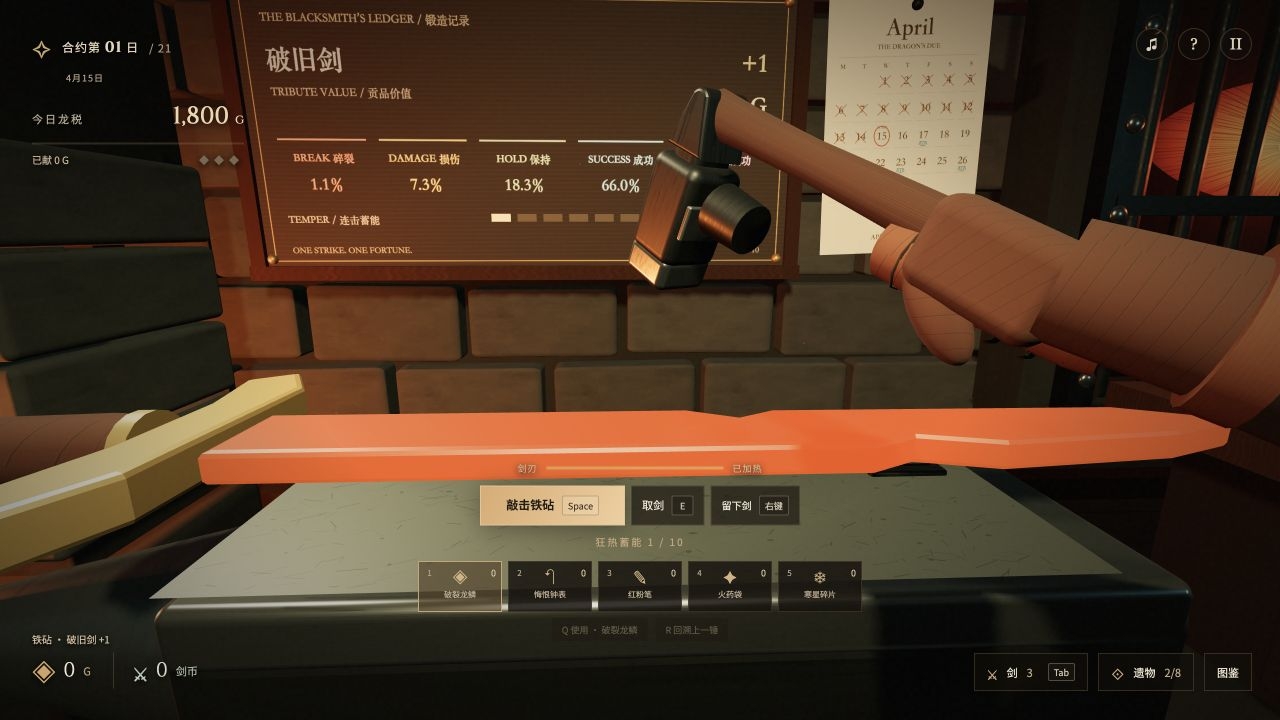
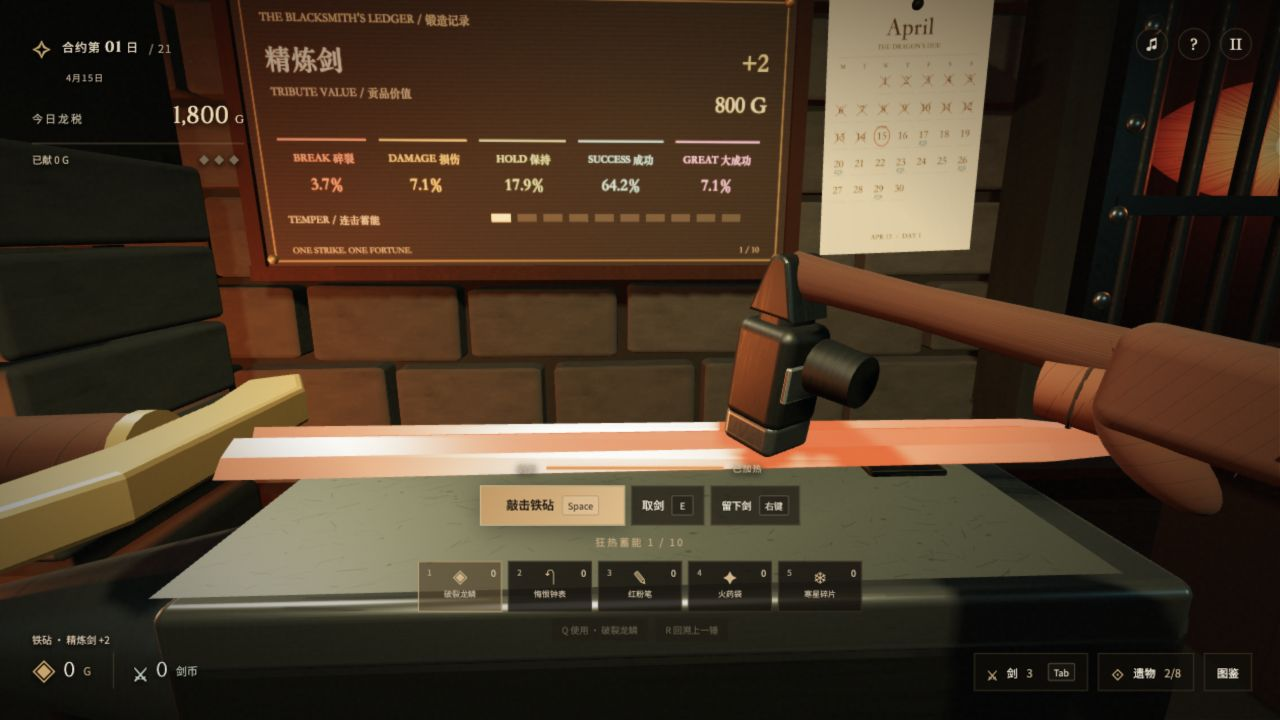
Broaden hammer windup and give strikes a heavier low-guard recovery

diff --git a/tests/hammer-rhythm.test.js b/tests/hammer-rhythm.test.js
@@ -2,11 +2,11 @@ import test from 'node:test';
 import assert from 'node:assert/strict';
 import * as THREE from 'three';
 import {getHammerStrikePose,getHammerForearmPose,getAnvilFocusView} from '../src/workshop-motion.js';
-import {HAMMER_FACE,HAMMER_WRIST} from '../src/hammer-frame.js';
+import {HAMMER_FACE,HAMMER_WRIST,hammerHeadMinimumY} from '../src/hammer-frame.js';
 
-function setup(aspect=1280/720,z=null){
+function setup(aspect=1280/720,z=null,height=1.62){
   const view=getAnvilFocusView(aspect),camera=new THREE.PerspectiveCamera(66,aspect,.045,60);camera.position.copy(view.position);if(z!==null)camera.position.z=z;camera.lookAt(view.look);camera.updateMatrixWorld();
-  const origin=new THREE.Vector3(-.96,1.62,-.92);
+  const origin=new THREE.Vector3(-.96,height,-.92);
   const frame=time=>{
     const pose=getHammerStrikePose({camera,scale:.68,origin,time,contact:.32,duration:.56});
     const local=new THREE.Matrix4().compose(pose.position,pose.quaternion,pose.scale);
@@ -36,6 +36,19 @@ test('a forceful strike is lifted overhead before its accelerating downstroke',(
   const {frame,origin}=setup();
   const raised=Math.max(...Array.from({length:32},(_,i)=>frame(i/100).face.y));
   assert.ok(raised>origin.y+.7,'hammer is visibly raised high above the blade');
+});
+
+test('the windup visibly lifts the arm out of a low guard instead of only rotating the hammer',()=>{
+  for(const aspect of [1280/720,1,360/800]){
+    const {frame}=setup(aspect);
+    assert.ok(frame(0).wrist.distanceTo(frame(.32*.42).wrist)>.3,'the hand travels at least 30cm through the windup');
+  }
+});
+
+test('the desktop windup brings the raised hand inside the frame',()=>{
+  const {frame,camera}=setup(),raised=frame(.32*.42);
+  const screen=raised.wrist.clone().applyMatrix4(camera.matrixWorld).project(camera);
+  assert.ok(Math.abs(screen.x)<.95&&Math.abs(screen.y)<.95,'the raised hand stays visible with a small screen margin');
 });
 
 test('a heavy downstroke concentrates most of its descent in the final quarter',()=>{
@@ -68,8 +81,25 @@ test('overhead forging stays in reach without the old idle-to-contact side twist
 });
 
 test('desktop and portrait forge cameras keep the entire overhead stroke within the fixed shoulder reach',()=>{
-  for(const aspect of [1280/720,1,360/800]){
-    const {frame}=setup(aspect),anchor=new THREE.Vector3(THREE.MathUtils.lerp(.21,.28,THREE.MathUtils.clamp((aspect-.9)/.65,0,1)),-.3,-.12);
+  for(const aspect of [1280/720,1,360/800,390/844])for(const height of [1.61,1.7504]){
+    const {frame}=setup(aspect,null,height),anchor=new THREE.Vector3(THREE.MathUtils.lerp(.21,.28,THREE.MathUtils.clamp((aspect-.9)/.65,0,1)),-.3,-.12);
     for(let i=0;i<=56;i++)assert.ok(frame(i/100).arm.shoulder.distanceTo(anchor)<1e-5,'IK never relocates the shoulder to manufacture extra reach');
+  }
+});
+
+test('square-window windups keep the head ahead of the near plane without stretching the arm',()=>{
+  // Blade contacts include the thick citadel and the fish blade's offset plate.
+  const origins=[new THREE.Vector3(-.96,1.60112,-.92),new THREE.Vector3(-.96,1.7504,-.92),new THREE.Vector3(-.96,1.670527,-.7664)];
+  const depthAxis=new THREE.Quaternion().setFromAxisAngle(new THREE.Vector3(1,0,0),Math.PI/2);
+  for(let step=0;step<=22;step++){
+    const aspect=.75+step*.025,{camera}=setup(aspect);
+    const shoulder=new THREE.Vector3(THREE.MathUtils.lerp(.21,.28,THREE.MathUtils.clamp((aspect-.9)/.65,0,1)),-.3,-.12);
+    for(const origin of origins)for(const time of [...Array.from({length:57},(_,i)=>i/100),.32*.42]){
+      const pose=getHammerStrikePose({camera,scale:.68,origin,time});
+      const nearDepth=-pose.position.z+hammerHeadMinimumY(depthAxis.clone().multiply(pose.quaternion),pose.scale.x);
+      assert.ok(nearDepth>.05,`head clears the 45mm near plane with margin, aspect=${aspect}, t=${time}`);
+      const wrist=HAMMER_WRIST.clone().applyMatrix4(new THREE.Matrix4().compose(pose.position,pose.quaternion,pose.scale));
+      assert.ok(getHammerForearmPose(wrist,aspect).shoulder.distanceTo(shoulder)<1e-5,'framing correction never creates extra arm reach');
+    }
   }
 });

diff --git a/src/workshop-motion.js b/src/workshop-motion.js
@@ -23,13 +23,13 @@ function hammerContactFrame(camera,origin,scale){
     .multiply(new THREE.Quaternion().setFromAxisAngle(new THREE.Vector3(0,0,1),Math.PI/2-HAMMER_HEAD.roll));
   const contactPosition=origin.clone().sub(HAMMER_FACE.clone().multiplyScalar(scale).applyQuaternion(contactQuaternion));
   const contactWrist=contactPosition.clone().add(HAMMER_GRIP.clone().multiplyScalar(scale).applyQuaternion(contactQuaternion));
-  return {toGrip,contactQuaternion,contactWrist,armScale:1};
+  return {toGrip,right,contactQuaternion,contactWrist,armScale:1};
 }
 
-function hammerWorkingPose({camera,scale,origin},angle,reach,lift){
+function hammerWorkingPose({camera,scale,origin},angle,reach,lift,sweep=0){
   const frame=hammerContactFrame(camera,origin,scale),axis=new THREE.Vector3(0,1,0).cross(frame.toGrip);
   const quaternion=new THREE.Quaternion().setFromAxisAngle(axis,angle).multiply(frame.contactQuaternion);
-  const wrist=frame.contactWrist.addScaledVector(frame.toGrip,reach);wrist.y+=lift;
+  const wrist=frame.contactWrist.addScaledVector(frame.toGrip,reach).addScaledVector(frame.right,sweep);wrist.y+=lift;
   const position=wrist.sub(HAMMER_GRIP.clone().multiplyScalar(scale).applyQuaternion(quaternion));
   // Protect the whole head envelope without flattening the stroke into a slide.
   const head=position.clone().add(new THREE.Vector3(...HAMMER_HEAD.position).multiplyScalar(scale).applyQuaternion(quaternion));
@@ -39,23 +39,29 @@ function hammerWorkingPose({camera,scale,origin},angle,reach,lift){
   const result={position:new THREE.Vector3(),quaternion:new THREE.Quaternion(),scale:new THREE.Vector3(),armScale:frame.armScale};matrix.decompose(result.position,result.quaternion,result.scale);return result;
 }
 
-export function getHammerReadyPose(options){return hammerWorkingPose(options,.45,.03,.03);}
+export function getHammerReadyPose(options){return hammerWorkingPose(options,.15,.13,-.045,.06);}
 
 export function getHammerStrikePose({camera,scale,origin,time,contact=.32,duration=.56}){
-  const options={camera,scale,origin};let angle,reach,lift;
+  const options={camera,scale,origin};let angle,reach,lift,sweep;
   const raise=contact*.42;
-  if(time<raise){const t=ease(time/raise);angle=.45+1.05*t;reach=.03+.12*t;lift=.03+.21*t;}
+  // The interpolated square-window camera is closer to the raised head.
+  // Keep that arc farther forward, fading smoothly back to the wide/phone arc.
+  const square=THREE.MathUtils.smoothstep(camera.aspect,.75,.9)*(1-THREE.MathUtils.smoothstep(camera.aspect,1.05,1.3));
+  const raisedReach=.1-.22*square;
+  // Lift from a low guard and draw the hand inward across the frame. Raising
+  // only the head hides the extra travel above the screen and strains the IK.
+  if(time<raise){const t=ease(time/raise);angle=.15+1.35*t;reach=THREE.MathUtils.lerp(.13,raisedReach,t);lift=-.045+.26*t;sweep=.06-.18*t;}
   else if(time<contact){
     // Load the descent toward the end: a heavy start followed by a fast drive
     // into the blade, with nonzero velocity at contact.
     const t=THREE.MathUtils.clamp((time-raise)/(contact-raise),0,1),remaining=1-Math.pow(t,3.2);
-    angle=1.5*remaining;reach=.15*remaining;lift=.24*remaining;
+    angle=1.5*remaining;reach=raisedReach*remaining;lift=.215*remaining;sweep=-.12*remaining;
   }else{
     const rebound=Math.min(.09,(duration-contact)*.4);
-    if(time<contact+rebound){const t=THREE.MathUtils.clamp((time-contact)/rebound,0,1),up=1-(1-t)*(1-t);angle=.55*up;reach=.04*up;lift=.04*up;}
-    else {const t=ease((time-contact-rebound)/(duration-contact-rebound));angle=.55-.1*t;reach=.04-.01*t;lift=.04-.01*t;}
+    if(time<contact+rebound){const t=THREE.MathUtils.clamp((time-contact)/rebound,0,1),up=1-(1-t)*(1-t);angle=.44*up;reach=.085*up;lift=.025*up;sweep=.035*up;}
+    else {const t=ease((time-contact-rebound)/(duration-contact-rebound));angle=.44-.29*t;reach=.085+.045*t;lift=.025-.07*t;sweep=.035+.025*t;}
   }
-  return hammerWorkingPose(options,angle,reach,lift);
+  return hammerWorkingPose(options,angle,reach,lift,sweep);
 }
 
 export function getHammerForearmPose(wristPosition,aspect){

diff --git a/docs/workshop-feedback.md b/docs/workshop-feedback.md
@@ -18,7 +18,9 @@
 - 加热先插剑、渐热、抽出；仅铁、钢、锈蚀金属烧红，木、骨、魔力材质保留自身颜色。抽出之后金属持续红热，真实游戏热量仍只有原来的 0／100 两种状态。
 - 普通锤击在约 320ms 接触剑刃，同时产生火星、光闪、声音和结果；进化和碎裂画面也到接触时更新。剑身震动使用每次挥锤的实际接触时间，快速构筑随节奏缩短。游戏结果先计算并存储一次，视觉延迟不产生额外随机抽签。
 - 铁砧使用独立锻造待机姿势，进入时平滑举锤。锤面高举到剑面上方至少 70cm，再加速落下，接触后短促回弹；落槌不在接触前减速停顿。前臂 34cm、上臂 38cm，靠肘关节弯曲完成动作。桌面镜头移近铁砧，竖屏沿剑身斜向构图，手臂不再随镜头距离放大。桌面、方形与竖屏视角的整个挥锤轨迹均在固定肩点的伸手范围内。
-- 下落使用 `t^3.2` 进度：从高点起落时较慢，末段提速明显。普通锤在最后四分之一时间内完成约 64% 的垂直下落，命中前速度约为之前 `t^1.8` 曲线的 1.8 倍。渲染帧跨过接触时间时，第一帧火星使用准确的接触姿态，下一活动帧才回弹；暂停保留接触姿态，逻辑时间、冷却和单次结算不变。
+- 待机压低并向身侧收锤，蓄力时手腕向画面内侧抬起，扩大可见手臂行程。桌面薄剑的手腕位移约 31cm，比此前约 20cm 增加约 55%；高举时手腕回到画面内，手臂与锤头一起运动。回弹幅度小于蓄力动作，随后沉回低位。
+- 接近方形的窗口在高举时减少向相机的回收距离，随宽高比平滑过渡，避免厚剑和偏移剑面的锤头碰到近裁面；接触点与固定骨长保持不变。
+- 下落使用 `t^3.2` 进度：从高点起落时较慢，末段提速明显，最后四分之一时间完成超过 60% 的垂直下落。渲染帧跨过接触时间时，第一帧火星使用准确的接触姿态，下一活动帧才回弹；暂停保留接触姿态，逻辑时间、冷却和单次结算不变。
 - 用锤头端面接触实际剑刃，锤头、手掌和两段袖管在挥动过程中避开铁砧。命中时进化会重新查询新形态表面，火星与初始回弹也跟随新表面；待机帧缓存静态剑面的局部落点，避免每帧重新射线遍历整个模型。参考视频与观测范围见 [单手锤击参考](hammer-motion-references.md)。
 - 动画总时长根据现有挥锤间隔缩短，最快握柄／风箱组合不会被视觉 busy 延长。
 - 阴影有头、躯干、围裙、双腿和双臂；手臂与真实持剑、挥锤姿态关联。身体不写入第一人称颜色或深度画面，使用独立深度材质投影。

diff --git a/README.md b/README.md
@@ -10,13 +10,13 @@
 
 ![Dwarf Forge 桌面工坊与主菜单](docs/screenshots/workshop.jpg)
 
-挥锤锻造：以正常长度的手臂从高处举锤，起落沉稳，末段迅速加速，锤头端面击中剑刃后短促回弹；火星出现时显示准确接触帧，进化时落点跟随新的剑形态。桌面与竖屏镜头保持实际伸手距离。[动作参考视频与观测记录](docs/hammer-motion-references.md)。
+挥锤锻造：从低位收锤向内大幅抬臂，举过头顶后在末段迅速加速砸下；锤头端面击中剑刃，短促回弹后沉回待机。手臂保持正常长度，火星出现时显示准确接触帧，进化时落点跟随新的剑形态。[动作参考视频与观测记录](docs/hammer-motion-references.md)。
 
 实际工坊渲染的连续挥锤演示：
 
-![连续挥锤：高举、加速落槌和短促回弹](docs/screenshots/hammer-motion.gif)
+![连续挥锤：低位收锤、大幅抬臂、加速落槌和短促回弹](docs/screenshots/hammer-motion.gif)
 
-![高举落槌后的热剑与短臂握锤姿势](docs/screenshots/hammer-strike.jpg)
+![高举落槌后的热剑与低位收锤姿势](docs/screenshots/hammer-strike.jpg)
 
 手工裁切的羊皮票数看板：不规则皮边、细纤维与斑驳折痕。基础票用空心方格，遗物加票用绿色「＋」，移除票在原方格上打叉；机制加票在对应结果下方单独显示。
 
